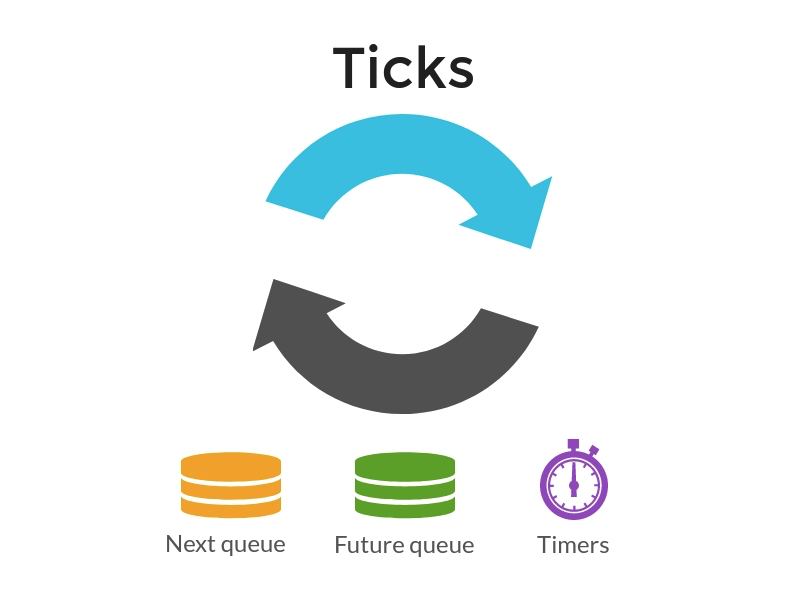
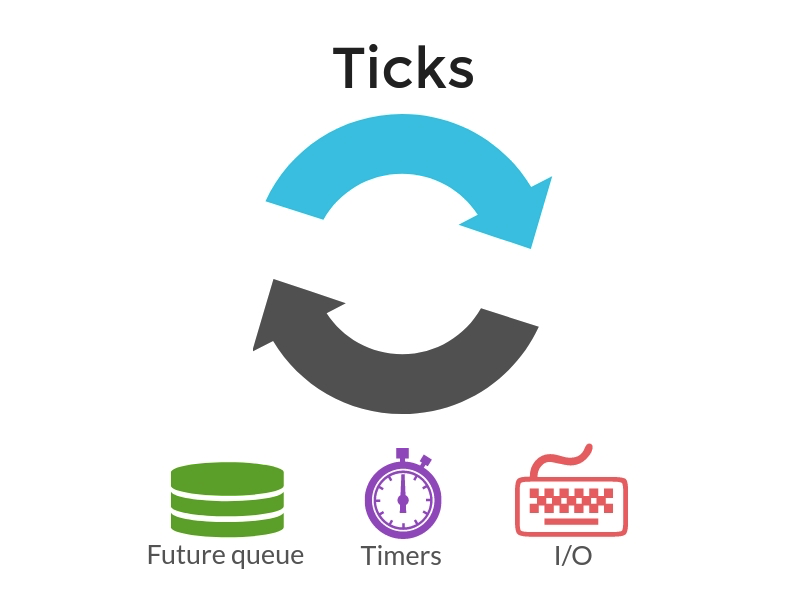
reactphp ticks fix: remove nextTicks

Changed region(s): [[0.1875, 0.75, 0.375, 0.96], [0.625, 0.72, 0.8125, 0.96], [0.4062, 0.75, 0.5938, 0.96]]

diff --git a/_posts/2017-09-25-reactphp-event-loop-ticks.md b/_posts/2017-09-25-reactphp-event-loop-ticks.md
@@ -11,16 +11,13 @@ description: "Understanding event loop ticks in ReactPHP."
     <img src="/assets/images/posts/reactphp/ticks.png" alt="ticks" class="">
 </p>
 
-*Tick* is one loop iteration where every callback in the queues has been executed synchronously and in order. ReactPHP event loop implementation has two main methods to work with ticks:
+*Tick* is one loop iteration where every callback in the queues has been executed synchronously and in order. ReactPHP event loop implementation has a method to schedule a callback to be invoked on a future iteration of the event loop:
 
-- `public function nextTick(callable $listener);`
 - `public function futureTick(callable $listener);`
 
-Both methods can be used to schedule a callback to be invoked on a future iteration of the event loop. When being executed a callback receives an instance of the event loop as an argument. But then what's the difference between *next* and *future* ticks? Let's figure this out.
+When being executed a callback receives an instance of the event loop as an argument. 
 
-## Difference Between Future And Next Ticks
-
-ReactPHP provides several implementations of the `LoopInterface` according to extensions available in your system. At the time of writing this article there are four available implementations, but all of them share the same next/future ticks logic. All four implementations of the event loop use two queues from `React\EventLoop\Tick` namespace: `FutureTickQueue` and `NextTickQueue`. When an event loop is being created it initialized both queues and stores them in properties:
+ReactPHP provides several implementations of the `LoopInterface` according to extensions available in your system. At the time of writing this article, there are four available implementations, but all of them share the same future ticks logic. All four implementations of the event loop use a `React\EventLoop\Tick\FutureTickQueue` queue. When an event loop is being created it initialized this queue and stores it in a property:
 
 {% highlight php %}
 <?php
@@ -33,14 +30,12 @@ namespace React\EventLoop;
 class StreamSelectLoop implements LoopInterface
 {
 
-    private $nextTickQueue;
     private $futureTickQueue;
 
     // ...
 
     public function __construct()
     {
-        $this->nextTickQueue = new NextTickQueue($this);
         $this->futureTickQueue = new FutureTickQueue($this);
     }
 
@@ -48,52 +43,45 @@ class StreamSelectLoop implements LoopInterface
 }
 {% endhighlight %}
 
-Both queues share the same public interface and are wrappers over the `SplQueue` class. They are used to store callbacks but have some differences in executing them. You can `add()` a callback to the queue, check if the queue `isEmpty()` and the most interesting method is `tick()`. This method is responsible for executing callbacks from the queue. Here is the difference between `NextTickQueue` and `FutureTickQueue`.
+Actually, `FutureTickQueue` is a wrapper over the `SplQueue` class. It is used to store and execute callbacks. You can `add()` a callback to the queue, check if the queue `isEmpty()` and execute them with `tick()`. 
 
->*In examples, I use `StreamSelectLoop` implementation of the `LoopInterface`, but there is no difference in ticks code between different event loop implementations. All implementations initialize queues in the constructor, have proxy methods to add callbacks to the queues and then execute these callbacks on each iteration.*
+>*In examples, I use `StreamSelectLoop` implementation of the `LoopInterface`, but there is no difference in ticks code between different event loop implementations. All implementations initialize queue in the constructor, have proxy methods to add callbacks to the queue and then execute these callbacks on each iteration.*
 
-When calling `tick()` on the `NextTickQueue` instance it executes **all** callbacks stored in the queue:
-
-{% highlight php %}
-<?php
-
- /**
-  * Flush the callback queue.
-  */
-public function tick()
-{
-    while (!$this->queue->isEmpty()) {
-        call_user_func(
-            $this->queue->dequeue(),
-            $this->eventLoop
-        );
-    }
-}
-{% endhighlight %}
-
-While the future queue executes only those callbacks that **were added before it started processing** them. Here is `tick()` implementation in `FutureTickQueue` class:
+When calling `tick()` on the `FutureTickQueue` instance it executes only those callbacks that **were added before it started processing** them:
 
 {% highlight php %}
 <?php
 
-/**
- * Flush the callback queue.
- */
-public function tick()
-{
-    // Only invoke as many callbacks as were on the queue when tick() was called.
-    $count = $this->queue->count();
+namespace React\EventLoop\Tick;
 
-    while ($count--) {
-        call_user_func(
-            $this->queue->dequeue(),
-            $this->eventLoop
-        );
+class FutureTickQueue
+{
+    private $eventLoop;
+    private $queue;
+
+    // ...
+
+    /**
+     * Flush the callback queue.
+     */
+    public function tick()
+    {
+        // Only invoke as many callbacks as were on the queue when tick() was called.
+        $count = $this->queue->count();
+
+        while ($count--) {
+            call_user_func(
+                $this->queue->dequeue(),
+                $this->eventLoop
+            );
+        }
     }
+
+    // ...
 }
 {% endhighlight %}
 
-So, when you call `nextTick()` or `futureTick()` on the event loop you simply add a callback to the *next* of *future* queue accordingly. These event loop methods are just wrappers over the queue `add()` method:
+So, when you call `futureTick()` on the event loop you simply add a callback to the *future* queue. This event loop method is just a wrapper over the queue `add()` method:
 
 {% highlight php %}
 <?php
@@ -107,10 +95,6 @@ class StreamSelectLoop implements LoopInterface
 {
     // ...
 
-    public function nextTick(callable $listener)
-    {
-        $this->nextTickQueue->add($listener);
-    }
 
     public function futureTick(callable $listener)
     {
@@ -121,7 +105,114 @@ class StreamSelectLoop implements LoopInterface
 }
 {% endhighlight %}
 
-When the event loop runs it executes *next tick* callbacks and then *future tick* ones:
+To see this queue in action let's try to schedule echoing a string:
+
+{% highlight php %}
+<?php
+
+$eventLoop = \React\EventLoop\Factory::create();
+
+$eventLoop->futureTick(function() {
+    echo "Tick\n";
+});
+
+echo "Loop starts\n";
+
+$eventLoop->run();
+
+echo "Loop stops\n";
+{% endhighlight %}
+
+<div class="row">
+    <p class="col-sm-9 pull-left">
+        <img src="/assets/images/posts/reactphp/ticks-future-simple.png" alt="ticks-future" class="">
+    </p>
+</div>
+
+A tick callback must be able to accept no arguments. So, if we want to access some variables within a callback we should bind them to a closure:
+
+{% highlight php %}
+<?php
+
+$string = "Tick!\n";
+
+$eventLoop->futureTick(function() use($string) {
+    echo $string;
+});
+{% endhighlight %}
+
+To see the queue in action and how it executes the scheduled callbacks let's try to recursively schedule them.
+
+{% highlight php %}
+<?php
+
+use React\EventLoop\LoopInterface;
+
+$eventLoop = \React\EventLoop\Factory::create();
+
+$callback = function (LoopInterface $eventLoop) use (&$callback) {
+    echo "Hello world\n";
+    $eventLoop->futureTick($callback);
+};
+
+$eventLoop->futureTick($callback);
+
+$eventLoop->futureTick(function(LoopInterface $eventLoop){
+    $eventLoop->stop();
+});
+
+$eventLoop->run();
+
+echo "Finished\n";
+{% endhighlight %}
+
+<div class="row">
+    <p class="col-sm-9 pull-left">
+        <img src="/assets/images/posts/reactphp/ticks-future.png" alt="ticks-future" class="">
+    </p>
+</div>
+
+At first, we schedule two callbacks. The first one outputs `Hello world` string and then schedules itself for the future tick. The second callback stops an event loop. When we use *future* ticks the callbacks are executed right in the order they have been scheduled. In our case, that means that the second callback stops the loop and a recursively scheduled callback will never be executed.
+
+## Order of Execution
+
+Here is an interesting example to see the actual order of callbacks execution in the event loop. Here is the code: 
+
+{% highlight php %}
+<?php 
+
+$eventLoop = \React\EventLoop\Factory::create();
+
+$writable = new \React\Stream\WritableResourceStream(fopen('php://stdout', 'w'), $eventLoop);
+$writable->write("I\O");
+
+$eventLoop->addTimer(0, function(){
+    echo "Timer\n";
+});
+
+$eventLoop->futureTick(function(){
+    echo "Future tick\n";
+});
+
+$eventLoop->run();
+{% endhighlight %}
+
+
+We are going to schedule two callbacks: with `futureTick()` and with `addTimeout()`and also we will perform some I/O operation. Before running this script try to guess the expected output. Then run the script and see what happens:
+
+<div class="row">
+    <p class="col-sm-9 pull-left">
+        <img src="/assets/images/posts/reactphp/event-loop-order.png" alt="event-loop-order" class="">
+    </p>
+</div>
+
+You can see the actual order in which the callbacks were executed:
+
+- Future tick queue
+- Timers
+- I/O
+
+When the event loop runs it executes scheduled callbacks from the *future tick* queue, then timers and then the I/O callbacks:
 
 {% highlight php %}
 <?php
@@ -139,121 +230,23 @@ class StreamSelectLoop implements LoopInterface
         $this->running = true;
 
         while ($this->running) {
-            $this->nextTickQueue->tick();
-
             $this->futureTickQueue->tick();
 
-            // ...
+            // timers 
+
+            // streams activity
         }
     }
 }
 {% endhighlight %}
 
-To see the actual order of callbacks execution run this example. We are going to schedule three different callbacks, one with `nextTick()`, one with `futureTick()` and one with `addTimeout()`. Add some output and see what happens:
-
-{% highlight php %}
-<?php 
-
-$eventLoop = \React\EventLoop\Factory::create();
-
-$eventLoop->addTimer(0, function(){
-    echo "Timer\n";
-});
-
-$eventLoop->futureTick(function(){
-    echo "Future tick\n";
-});
-
-$eventLoop->nextTick(function(){
-    echo "Next tick\n";
-});
-
-$eventLoop->run();
-{% endhighlight %}
-
-When we run this script the output is the following:
-
-<div class="row">
-    <p class="col-sm-9 pull-left">
-        <img src="/assets/images/posts/reactphp/ticks-order.png" alt="ticks-order" class="">
-    </p>
-</div>
-
-You can see the actual order in which the callbacks were executed. 
-
-But to feel the real difference between *next* and *future* ticks we need a bit more complex example. Let's try to recursively schedule a callback with `futureTick()`:
-
-{% highlight php %}
-<?php
-
-use React\EventLoop\LoopInterface;
-
-$eventLoop = \React\EventLoop\Factory::create();
-
-$callback = function (LoopInterface $eventLoop) use (&$callback) {
-    echo "Hello world\n";
-    $eventLoop->futureTick($callback);
-};
-
-$eventLoop->futureTick($callback);
-$eventLoop->futureTick(function(LoopInterface $eventLoop){
-    $eventLoop->stop();
-});
-
-$eventLoop->run();
-
-echo "Finished\n";
-{% endhighlight %}
-
-<div class="row">
-    <p class="col-sm-9 pull-left">
-        <img src="/assets/images/posts/reactphp/ticks-future.png" alt="ticks-future" class="">
-    </p>
-</div>
-
-At first, we schedule two callbacks. The first one outputs `Hello world` string and then schedules itself for the future tick. The second callback stops an event loop. When we use *future* ticks the callbacks are executed right in the order they have been scheduled. In our case, that means that a recursively scheduled callback will never be executed.
-
-Now, let's use *next* ticks and see what happens:
-
-{% highlight php %}
-<?php
-
-$eventLoop = \React\EventLoop\Factory::create();
-
-$callback = function (LoopInterface $eventLoop) use (&$callback) {
-    echo "Hello world\n";
-    $eventLoop->nextTick($callback);
-};
-
-$eventLoop->nextTick($callback);
-$eventLoop->nextTick(function(LoopInterface $eventLoop){
-    $eventLoop->stop();
-});
-
-$eventLoop->run();
-
-echo "Finished\n";
-
-{% endhighlight %}
-
-<div class="row">
-    <p class="col-sm-9 pull-left">
-        <img src="/assets/images/posts/reactphp/ticks-next.gif" alt="ticks-next" class="">
-    </p>
-</div>
-
-You can see that the output is an infinite loop of the *next tick* callback calls. In this way, we actually never reach the second registered callback. Every time the first callback is being executed we recursively schedule a new one. An event loop processes the next tick queue **until the queue is empty**. 
-
-This introduces a problem: **starvation**. When recursively/repeatedly filling up the next tick queue using `nextTick()` method forces the event loop to keep processing next tick queue indefinitely without moving forward. This will cause I/O and other queues to starve forever because an event loop cannot continue without emptying the next tick queue (just like `while(true)` loop).
-
 ## Conclusion
 
 Consider a *tick* as one loop iteration where every callback in the queues has been executed synchronously and in order. That means that a tick could be long, it could be short, but we want it to be as short as possible. So, don't place long-running tasks in callbacks, because they will block the loop. When a tick a being stretched out, the event loop won't be able to check the events, which means losing performance for your asynchronous code.
 
-Callbacks that are scheduled with `nextTick()` or `futureTick()` are placed at the *head* of the event queue. They will be executed right after execution of the current execution context. The difference between *next* and *future* queues is that future queue executes only those callbacks that were added before it started processing them, while *next* queue executes all callbacks stored in the queue.
+Callbacks that are scheduled with `futureTick()` are placed at the *head* of the event queue. They will be executed right after execution of the current execution context. The queue executes only those callbacks that were added before it started processing them.
 
-Why do I need all of this? What is the use case for these ticks? Actually ticks can be a solution to convert some synchronous to asynchronous code. We simply schedule a callback onto the next tick of the event loop. But, remember that an event loop runs in a single thread, so your callbacks are not going to run in parallel to other operations. We can simply delay some code to properly order how the operations run, for example when waiting for the events to bind to a new object. 
-
+Why do I need all of this? What is the use case for these ticks? Actually, ticks can be a solution to convert some synchronous to asynchronous code. We simply schedule a callback onto the next tick of the event loop. But, remember that an event loop runs in a single thread, so your callbacks are not going to run in parallel to other operations. We can simply delay some code to properly order how the operations run, for example when waiting for the events to bind to a new object. Unlike timers, tick callbacks are guaranteed to be executed in the order they are enqueued.
 
 <hr>
 
